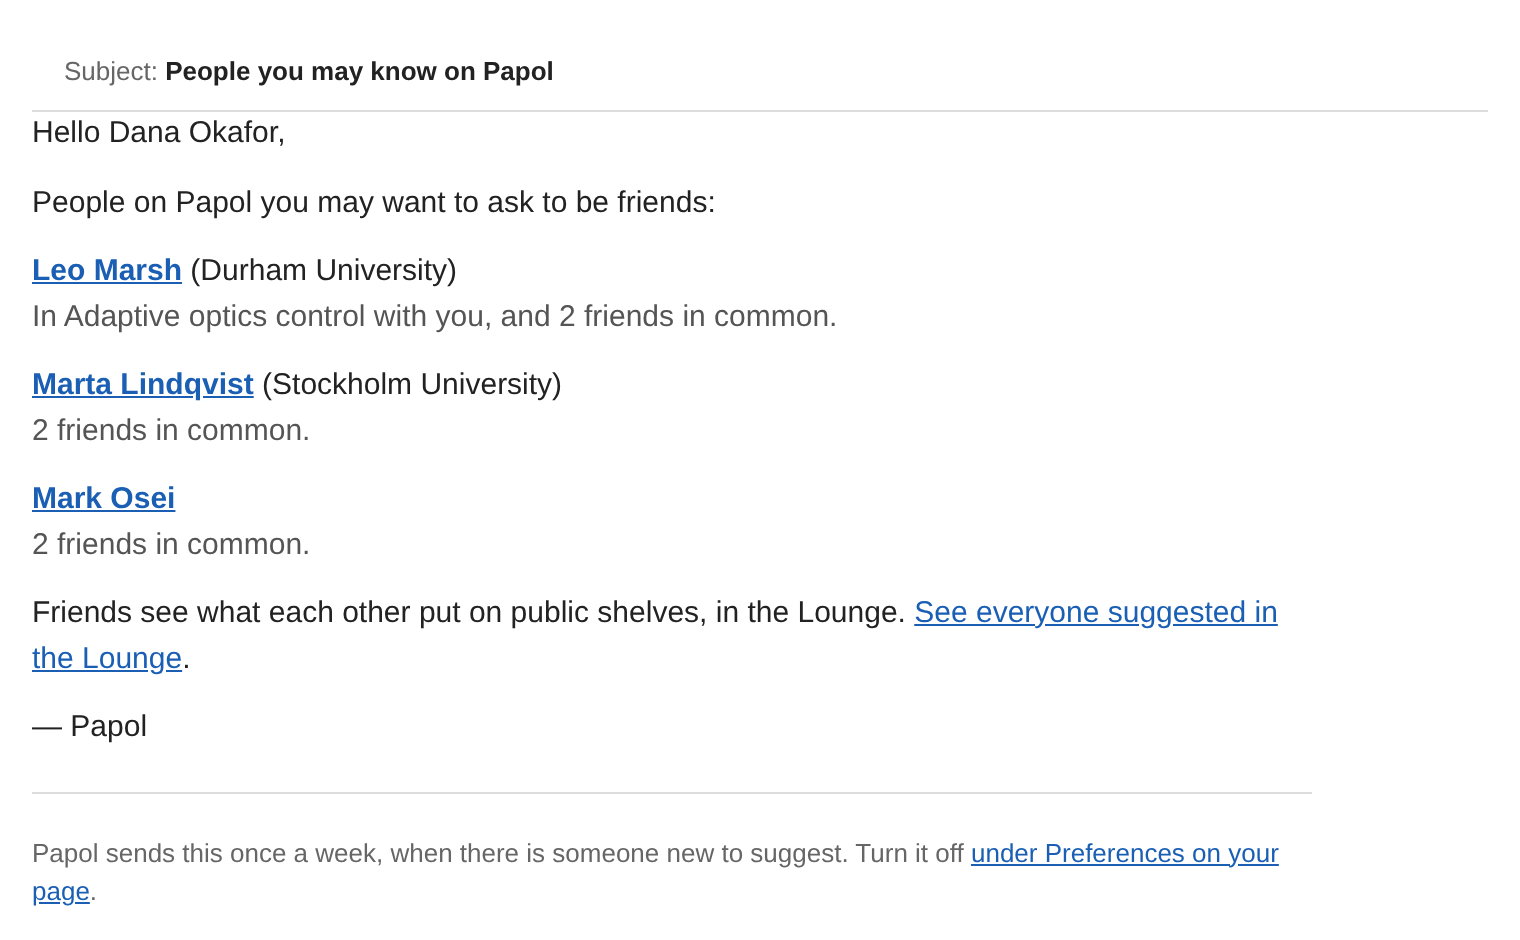
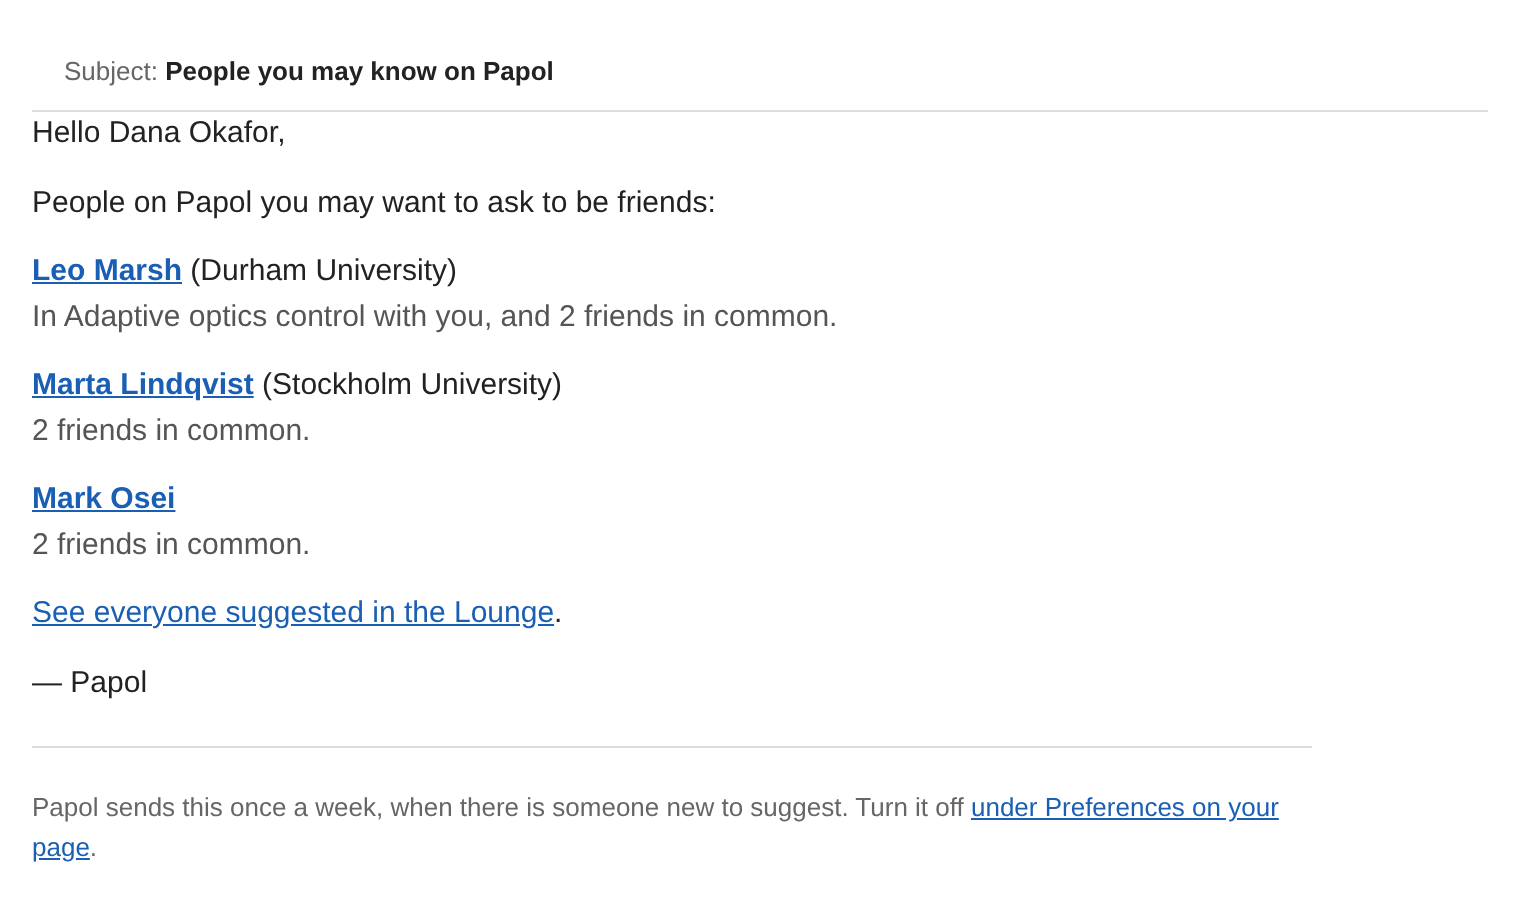
Drop the line about public shelves from the weekly email
Claude-Session: https://claude.ai/code/session_01PQZzMV2uNQsevdZShcUuoM

diff --git a/cloudflare/src/jobs/suggestions.ts b/cloudflare/src/jobs/suggestions.ts
@@ -54,7 +54,6 @@ export function suggestionMail(to: { email: string; display_name: string }, sugg
   const name = (s: Suggestion) => String(s.user.display_name);
   const subject = one ? `${name(suggestions[0])} is on Papol too` : "People you may know on Papol";
   const intro = one ? "Someone on Papol you may want to ask to be friends:" : "People on Papol you may want to ask to be friends:";
-  const why = "Friends see what each other put on public shelves, in the Lounge.";
   const foot = "Papol sends this once a week, when there is someone new to suggest.";
   const off = "under Preferences on your page";
   const nook = (s: Suggestion) => `${base}/u/${s.user.uuid}`;
@@ -63,7 +62,7 @@ export function suggestionMail(to: { email: string; display_name: string }, sugg
   const body = [
     `Hello ${to.display_name},`, "", intro, "",
     ...suggestions.flatMap((s) => [`- ${name(s)}${where(s)}`, `  ${reasonOf(s)}.`, `  ${nook(s)}`, ""]),
-    why, `See everyone suggested, and ask them, in the Lounge: ${base}/lounge`, "", "— Papol", "",
+    `See everyone suggested, and ask them, in the Lounge: ${base}/lounge`, "", "— Papol", "",
     `${foot} Turn it off ${off}: ${base}/profile`,
   ].join("\n");
 
@@ -76,7 +75,7 @@ export function suggestionMail(to: { email: string; display_name: string }, sugg
     + suggestions.map((s) => p(
       `<strong>${link(nook(s), name(s))}</strong>${escape(where(s))}<br>`
       + `<span style="color:#555555;">${escape(reasonOf(s))}.</span>`)).join("")
-    + p(`${escape(why)} ${link(`${base}/lounge`, "See everyone suggested in the Lounge")}.`)
+    + p(`${link(`${base}/lounge`, "See everyone suggested in the Lounge")}.`)
     + p("— Papol")
     + `<hr style="${STYLE.hr}">`
     + p(`${escape(foot)} Turn it off ${link(`${base}/profile`, off)}.`, quiet)
